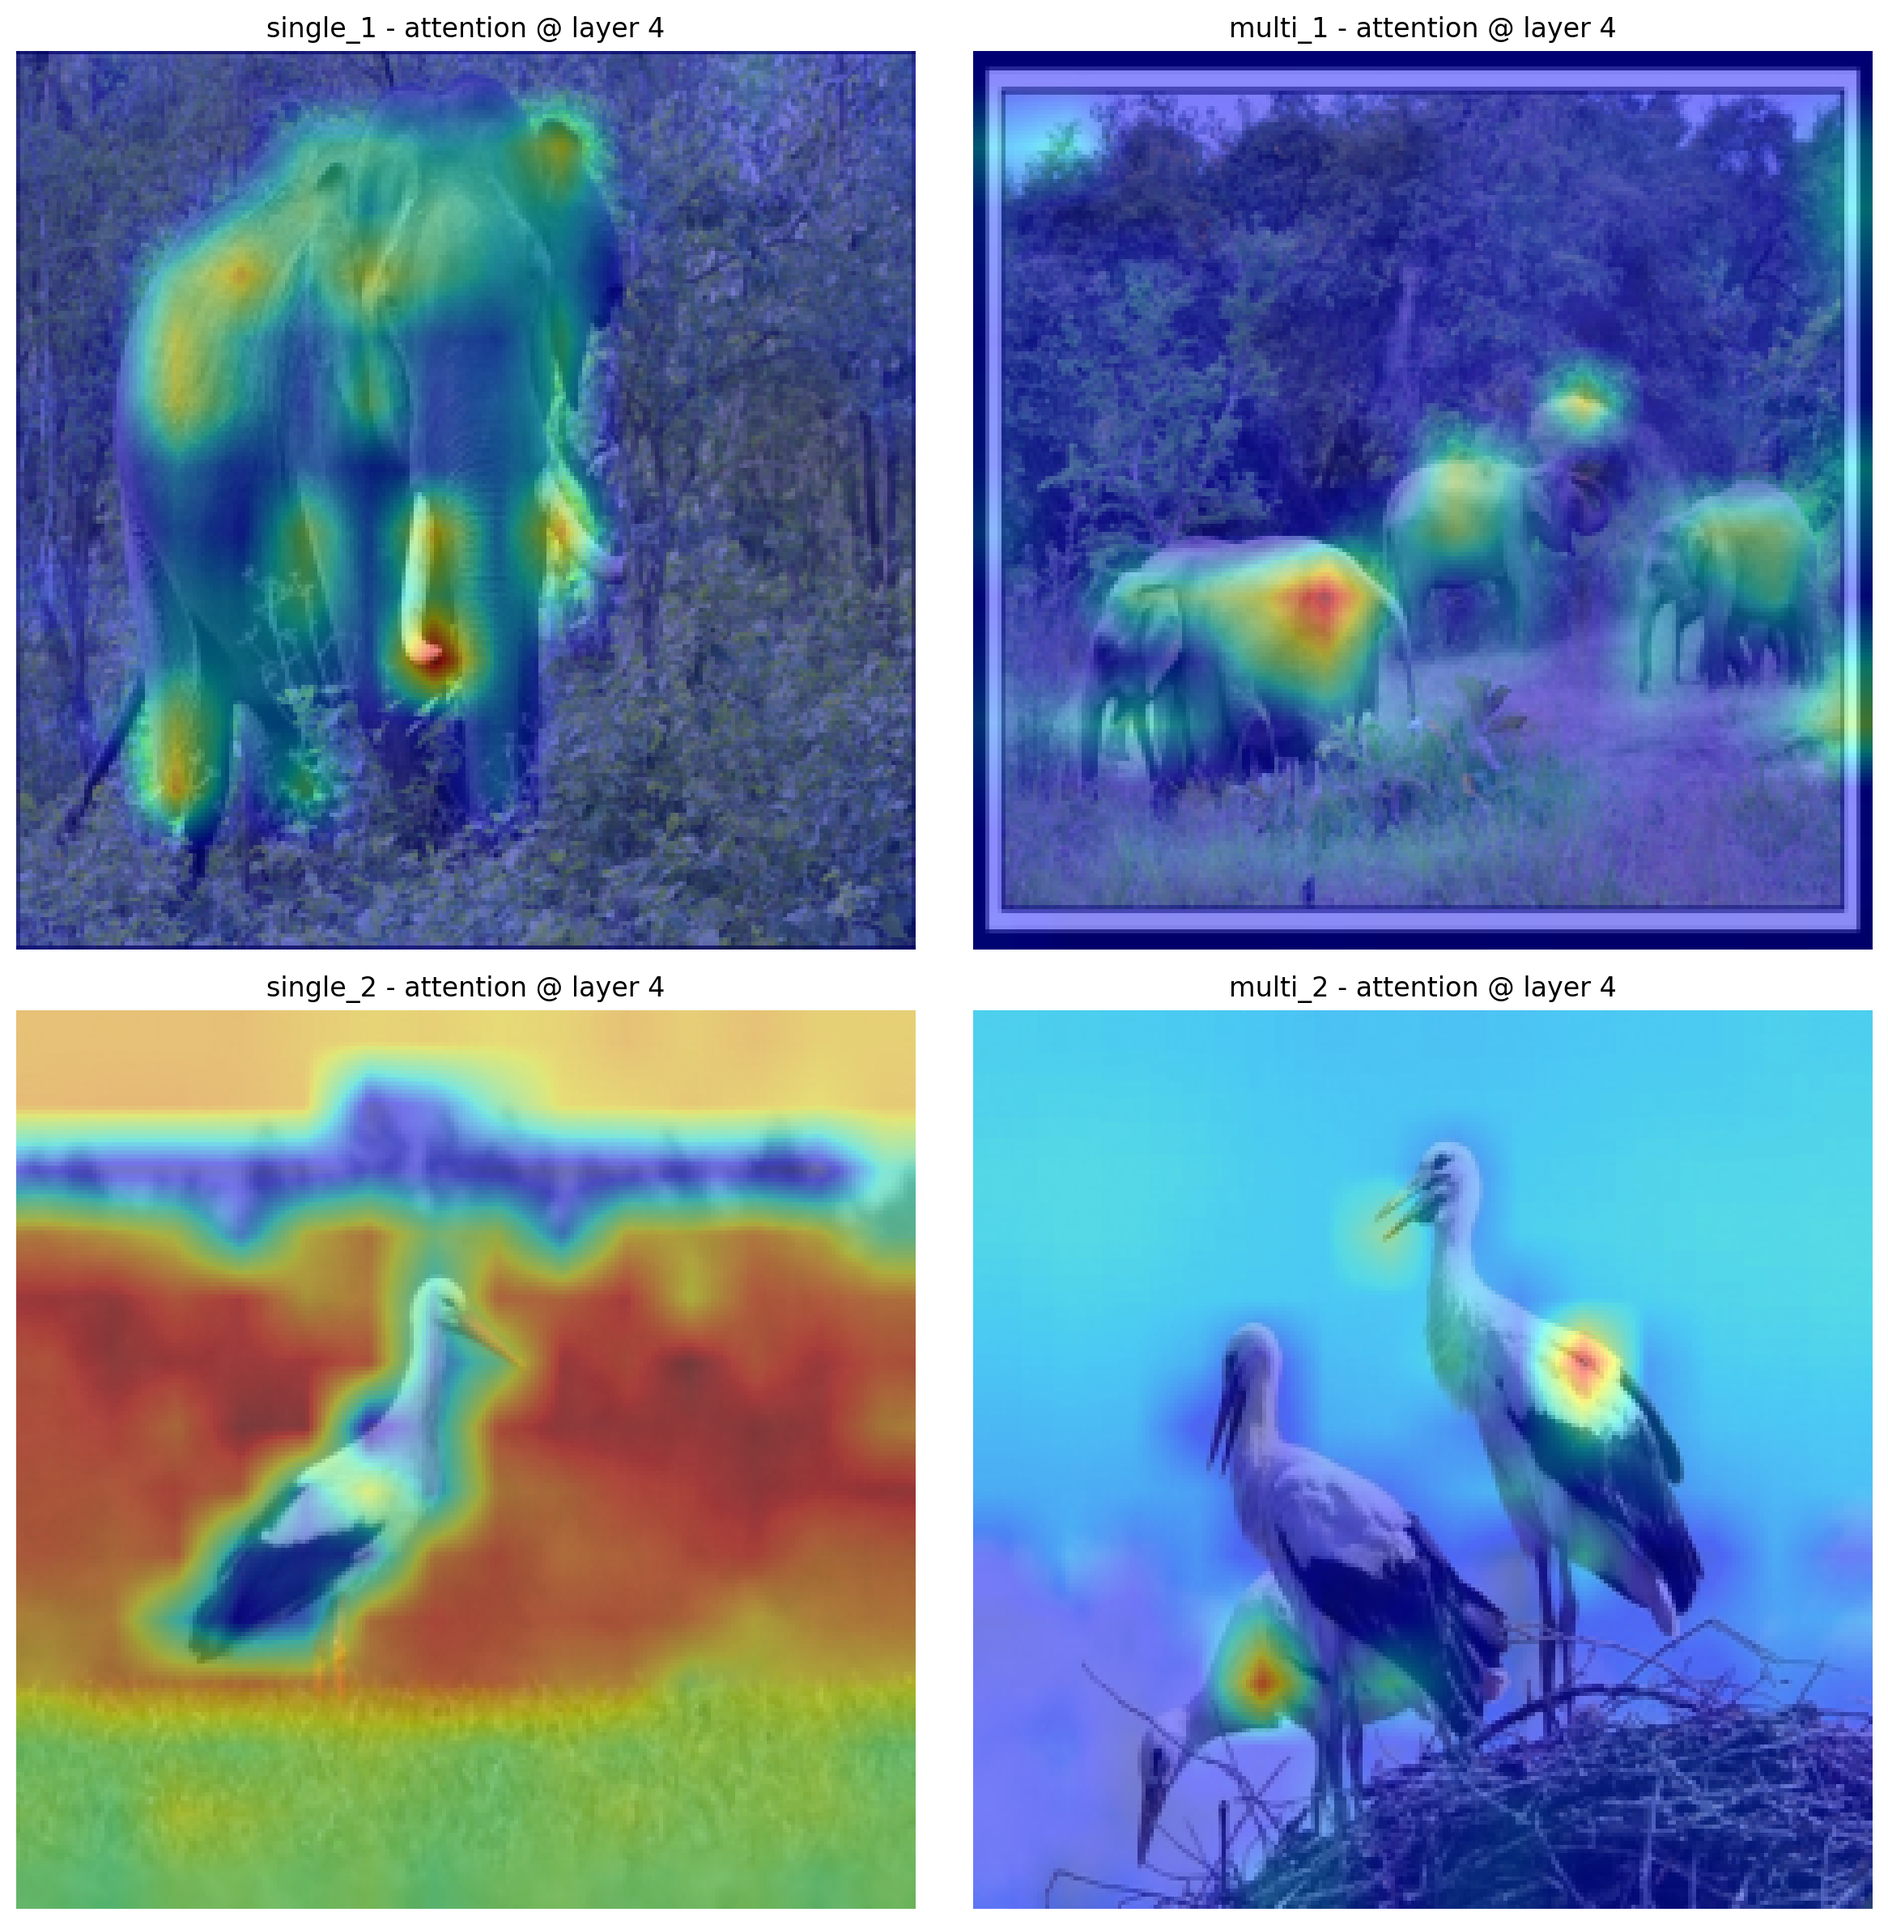
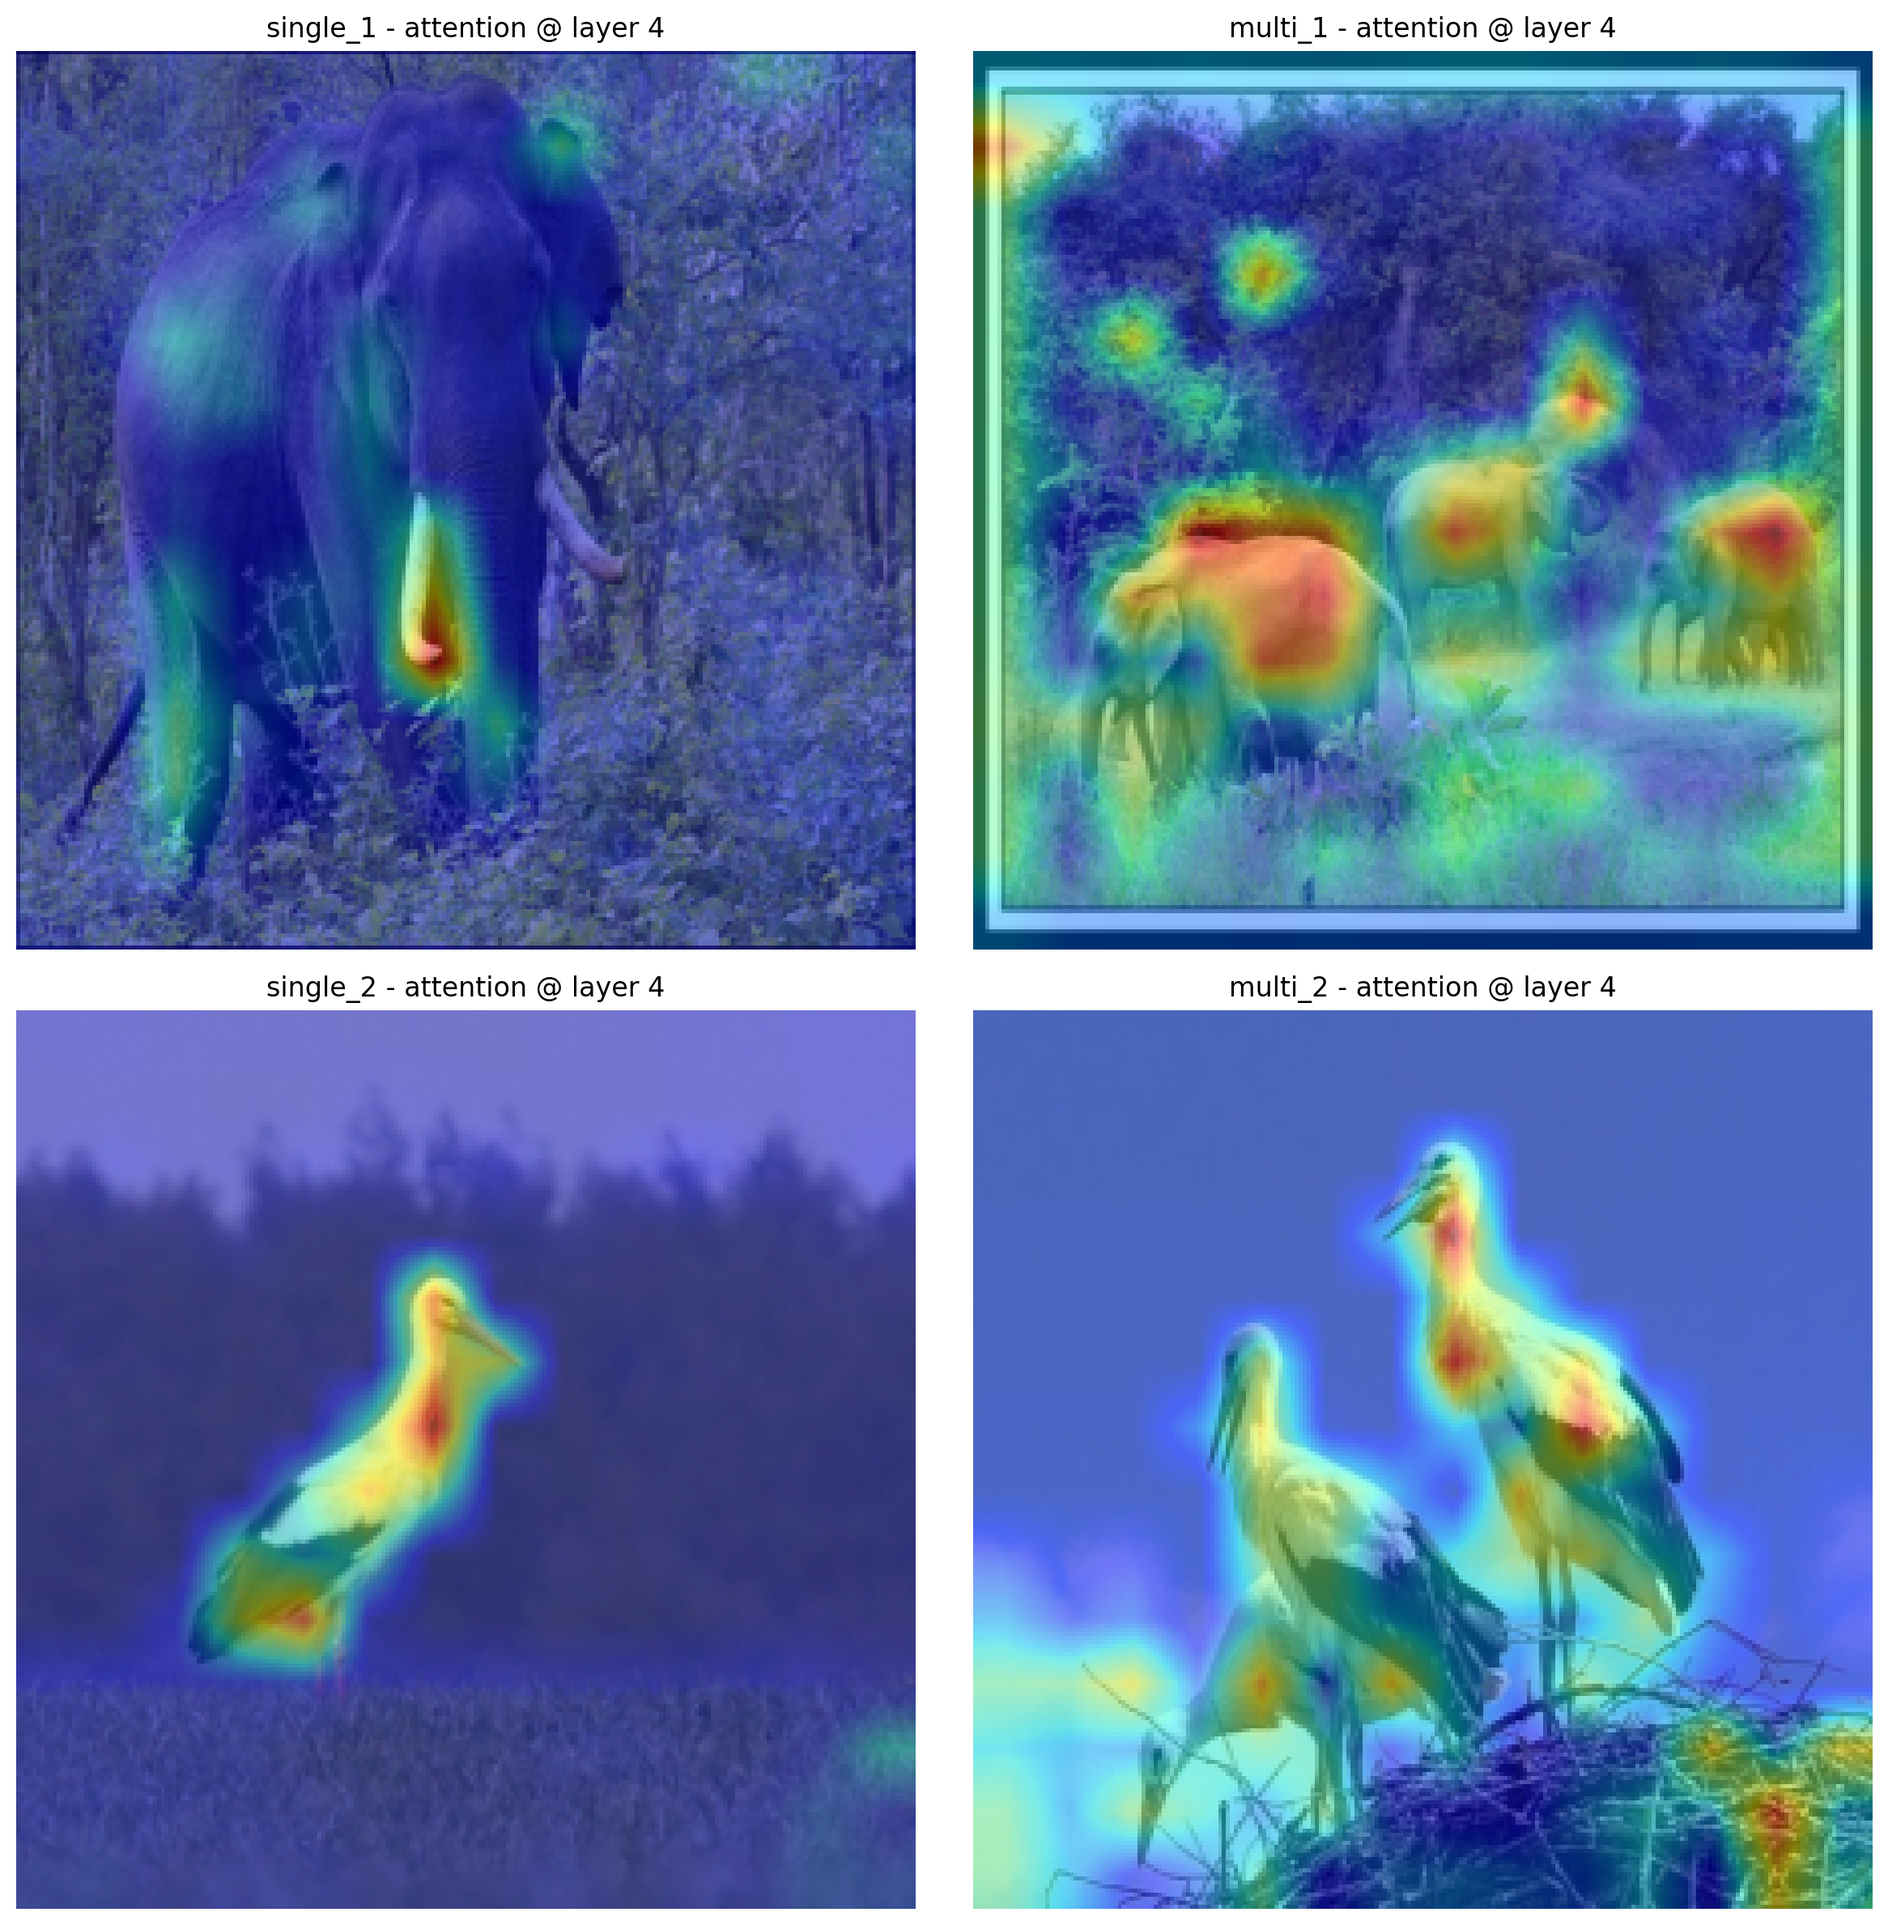
a deep dive into boundary analysis

diff --git a/src/imagenet_ckpt_vit.py b/src/imagenet_ckpt_vit.py
@@ -783,9 +783,24 @@ def main():
     
     #ckpt_path = "/fs/scratch/PAS2836/yusenpeng_checkpoint/imagenet_DRIP_temp_01/model_19.pth"
     #ckpt_path = "/fs/scratch/PAS2836/yusenpeng_checkpoint/imagenet_DRIP_temp_005/model_19.pth"
-    ckpt_path = "/fs/scratch/PAS2836/yusenpeng_checkpoint/imagenet_DRIP_no_sample/model_19.pth"
+    
+    
+    ckpt_path = "/fs/scratch/PAS2836/yusenpeng_checkpoint/imagenet_DRIP_temp_01/model_9.pth"
+
+    """
+    all zeros: 3rd
+    becoming meaningful: 9th
+    """
 
 
+    # ckpt_path = "/fs/scratch/PAS2836/yusenpeng_checkpoint/imagenet_DRIP_4x_01temp_300epochs/model_10.pth"
+
+    """
+    300 epochs
+    all zeros: 9th
+    callapsed: 10th
+    """
+    
 
     
     #ckpt_path = "/fs/scratch/PAS2836/yusenpeng_checkpoint/imagenet_causal_DRIP/checkpoint.pth"

diff --git a/README.md b/README.md
@@ -46,7 +46,9 @@ python src/FLOP.py --mode fixed_pooling --compression_rate 0.25
 sbatch scripts/task1/finetune_imagenet.sh
 ```
 
-### Boundary visualization and attention map analysis(🥑🥑 updated with ImageNet 🥑🥑)
+### Boundary visualization & attention map analysis
+
+for ImageNet
 
 ```bash
 python src/imagenet_ckpt_vit.py
